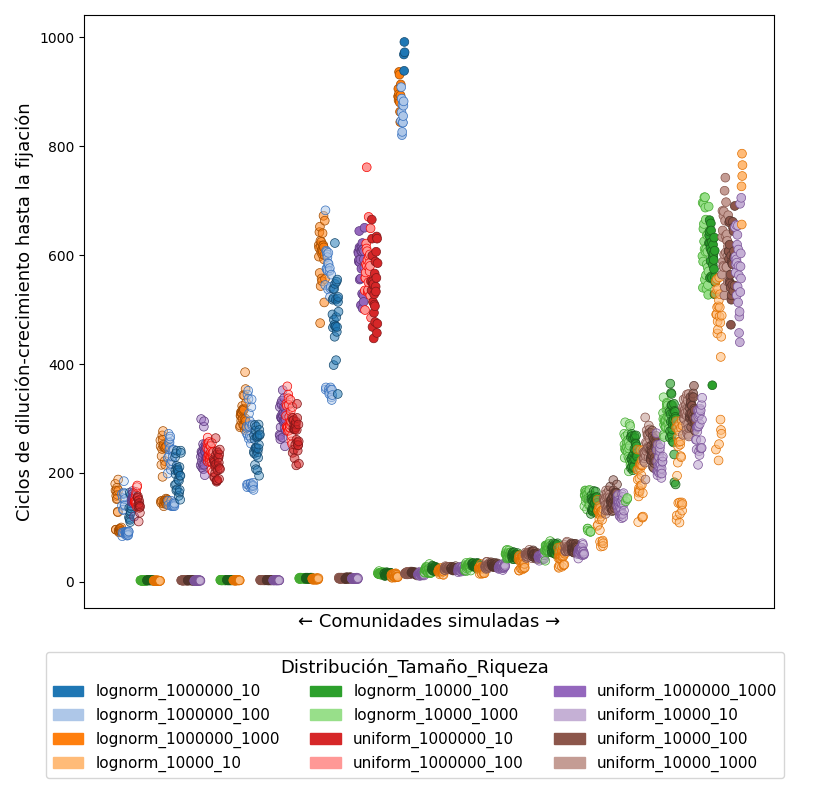
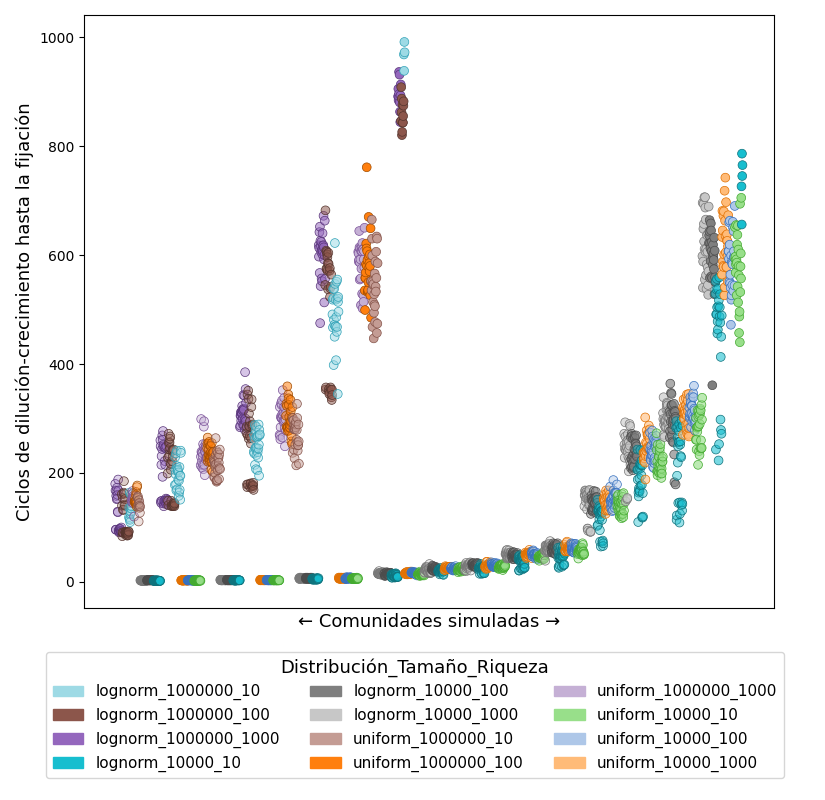
new plots

diff --git a/3_analysis/0__plot_target_variable_space_visualizacion5040_ES.py b/3_analysis/0__plot_target_variable_space_visualizacion5040_ES.py
@@ -13,11 +13,18 @@ import decimal
 import os
 from matplotlib.patches import Patch # legend labels
 import colorsys # version B
+import random # randomizar la paleta de colores
 
 output_folder = "/home/silvia/repos/predicting_fixation/figures/0__target_variable_space/"
 if not os.path.exists(output_folder):
     os.makedirs(output_folder)
 
+# color
+color_palette = plt.cm.get_cmap('tab20')
+color_palette = [color_palette(i) for i in range(color_palette.N)]
+random.shuffle(color_palette)
+color_palette = colors.ListedColormap(color_palette)
+    
 for perc in [0.50, 0.90]:
     
     # read data ===============================================================
@@ -58,8 +65,7 @@ for perc in [0.50, 0.90]:
     csv['combined'] = csv.apply(lambda row: '_'.join([str(row['distrib']), str(row['size']), str(row['richness'])]), axis=1)
 
     unique_strings = np.unique(csv["combined"])
-    color_palette = plt.cm.get_cmap('tab20')
-    
+
     # fill AND border for each point
     color_mapping_bright = {}
     color_mapping_dark = {}
